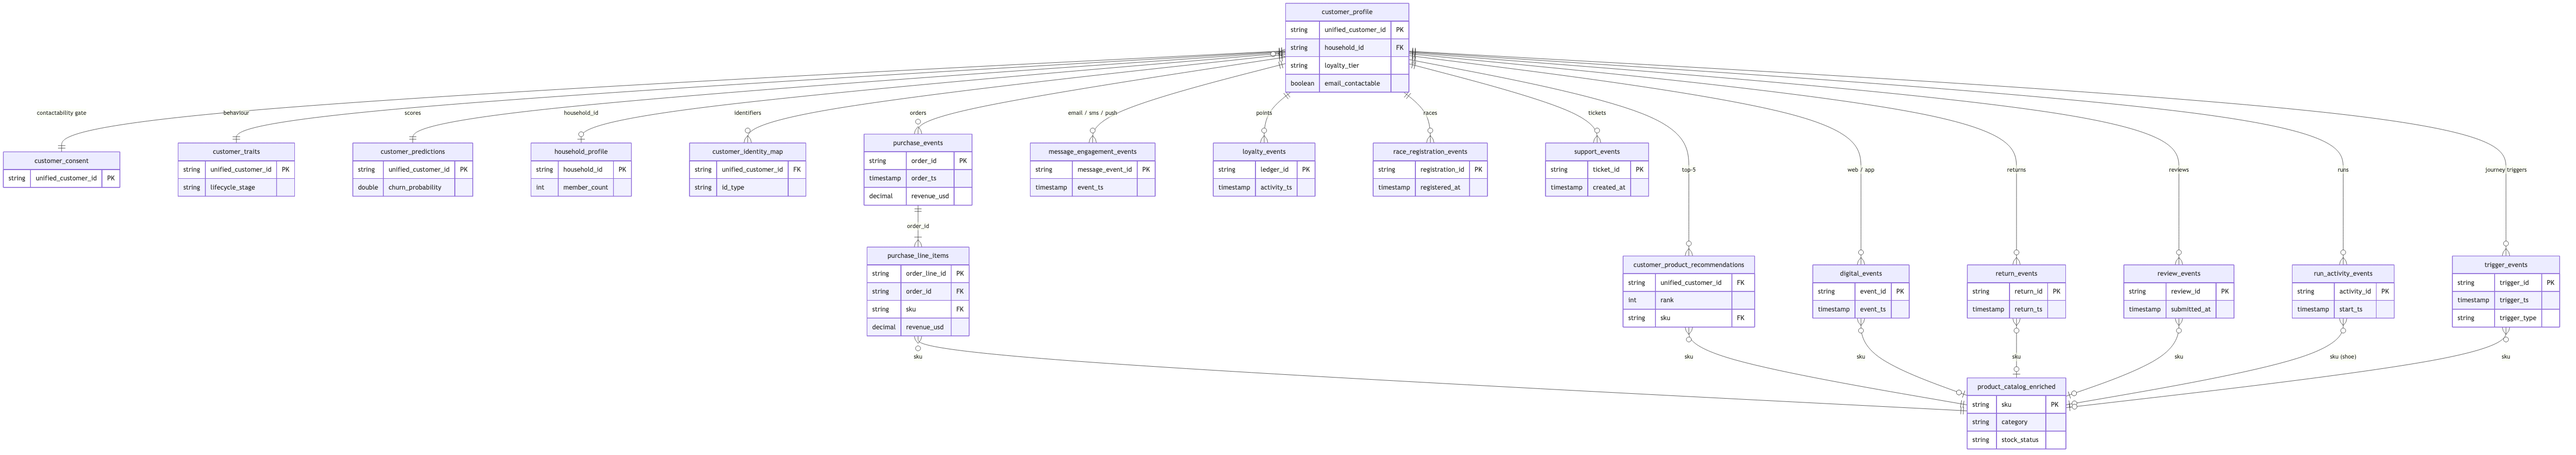
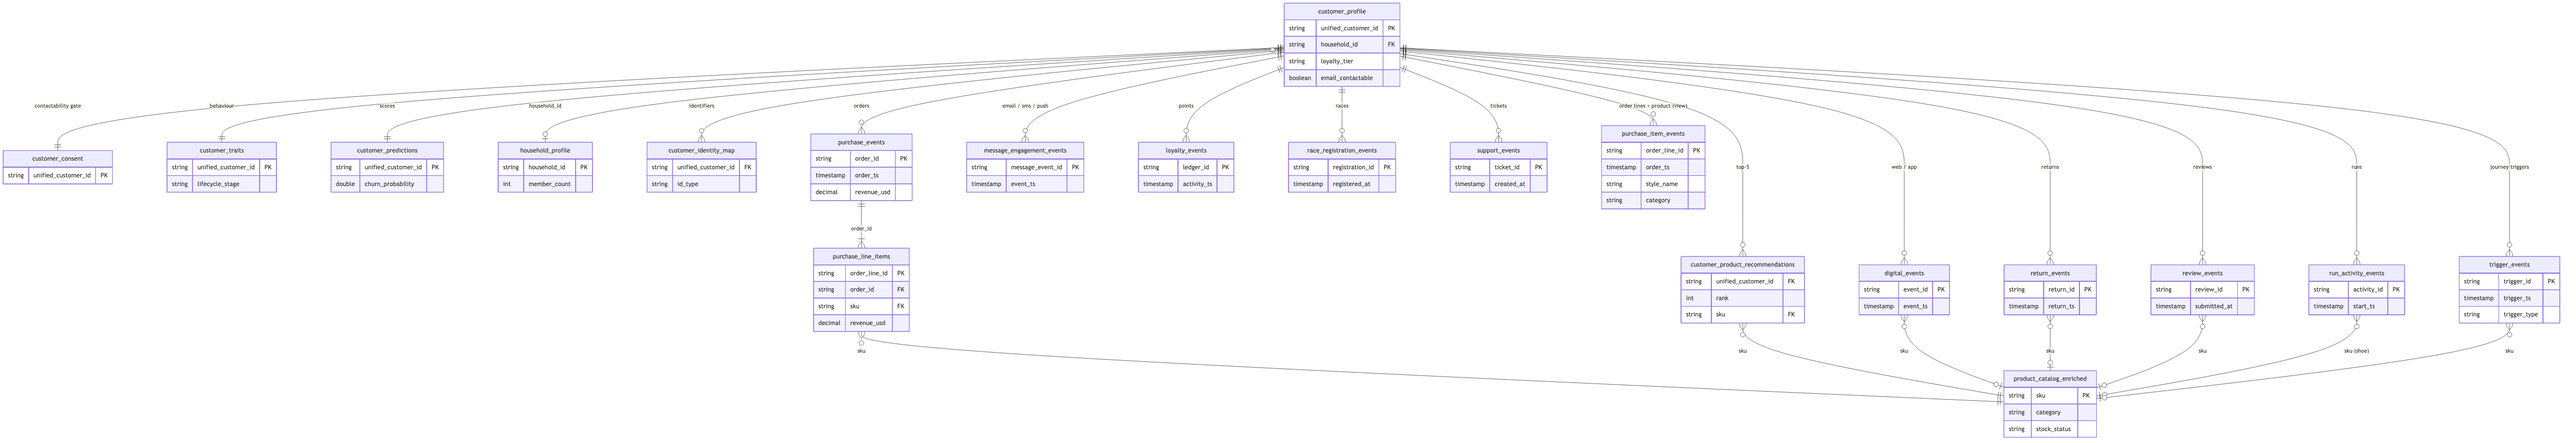
Add purchase_item_events view (order lines with order and product details)
Customer Lake event table (order_line_id, order_ts) for filtering purchases by product
name, category, sport, size and other product attributes. Created once with IF NOT
EXISTS so its identity stays stable; validated with the other event tables.

diff --git a/src/ddl/03_gold.py b/src/ddl/03_gold.py
@@ -2,7 +2,7 @@
 # MAGIC %md
 # MAGIC # Create gold tables
 # MAGIC
-# MAGIC **What it does:** Creates the gold schema and its 20 tables with a description on every table and column and liquid clustering keys. Safe to re-run: on existing tables it only refreshes descriptions and clustering keys.
+# MAGIC **What it does:** Creates the gold schema, its 20 tables and the `purchase_item_events` view with a description on every table and column and liquid clustering keys. Safe to re-run: on existing tables it only refreshes descriptions and clustering keys.
 # MAGIC
 # MAGIC - **Reads:** -
 # MAGIC - **Writes:** `retail_gold` schema and tables
@@ -650,6 +650,51 @@ CREATE TABLE IF NOT EXISTS ${catalog}.${gold}.review_events (
 ) COMMENT 'Customer Lake event table: product reviews (event id review_id, timestamp submitted_at) with rating and AI fit/sentiment. Derived from silver product_reviews + products. Built by job strideforge_medallion, task gold_customer_lake (notebook gold/04_customer_lake).'
 CLUSTER BY (unified_customer_id, submitted_at)
 TBLPROPERTIES ('cdp_activation' = 'true')
+""")
+# COMMAND ----------
+
+# MAGIC %md
+# MAGIC ### Step 22 - `purchase_item_events` - Customer Lake event table (view): one row per order line with order and product details
+# MAGIC Created once (`IF NOT EXISTS`) so the view keeps its identity for Customer Lake. To change it, drop it first.
+# COMMAND ----------
+
+run(r"""
+CREATE VIEW IF NOT EXISTS ${catalog}.${gold}.purchase_item_events (
+  order_line_id COMMENT 'Event id: order line id (order_id + "-" + line number).',
+  unified_customer_id COMMENT 'Unified customer id assigned by identity resolution (silver.identity_graph); joins to customer_profile.',
+  order_ts COMMENT 'Event timestamp: when the order was placed.',
+  order_id COMMENT 'Order id; joins to purchase_events.order_id.',
+  channel COMMENT 'Sales channel: web, app or store.',
+  store_id COMMENT 'Store (POS) or pickup store (BOPIS).',
+  country COMMENT 'Order country derived from currency: US, UK, DE, CA.',
+  fulfillment_type COMMENT 'ship, bopis, ship_from_store or in_store.',
+  promo_code COMMENT 'Promo / affiliate code used on the order.',
+  utm_source COMMENT 'UTM source of the order (google, meta, tiktok, youtube, email, sms, braze, affiliate, referral); null = direct.',
+  utm_campaign COMMENT 'UTM campaign (campaign_id for owned/paid campaigns, promo code for affiliates).',
+  sku COMMENT 'SKU bought = style_id-colorway-size (e.g. RUN0123-01-105).',
+  style_id COMMENT 'Product style id (e.g. RUN0123).',
+  style_name COMMENT 'Product name (e.g. CloudStride 3 Men\'s).',
+  category COMMENT 'Product category (Running, Trail, Basketball, Training, Lifestyle, Football, Kids Footwear, Apparel, Kids Apparel, Accessories).',
+  sport COMMENT 'Sport of the product (Running, Trail Running, Basketball, Training, Lifestyle, Football, Multi-Sport).',
+  gender COMMENT 'Product gender: Men, Women, Unisex or Kids.',
+  colorway COMMENT 'Colorway name (e.g. Core Black / Cloud White).',
+  size COMMENT 'Size bought (US numeric, kids C/Y, alpha XS-XXL, OS).',
+  is_limited_drop COMMENT 'Product is a limited collab drop.',
+  msrp COMMENT 'Manufacturer\'s suggested retail price (USD).',
+  unit_price_usd COMMENT 'Price paid per unit (USD).',
+  discount_usd COMMENT 'Discount on the line (USD).',
+  revenue_usd COMMENT 'Net line revenue after discount (USD).'
+)
+COMMENT 'Customer Lake event table (view): one row per order line of an identified order (event id order_line_id, timestamp order_ts), flattened with order details (channel, store, promo, UTMs) and product details (name, category, sport, gender, colorway, size, limited drop). Use it to filter purchases by product name or attributes. View over gold purchase_line_items + purchase_events + product_catalog_enriched; created by the gold DDL notebook (ddl/03_gold).'
+TBLPROPERTIES ('cdp_activation' = 'true')
+AS
+SELECT li.order_line_id, li.unified_customer_id, pe.order_ts, li.order_id, pe.channel, pe.store_id, pe.country,
+       pe.fulfillment_type, pe.promo_code, pe.utm_source, pe.utm_campaign,
+       li.sku, pc.style_id, pc.style_name, pc.category, pc.sport, pc.gender, pc.colorway, pc.size, pc.is_limited_drop, pc.msrp,
+       li.unit_price_usd, li.discount_usd, li.revenue_usd
+FROM ${catalog}.${gold}.purchase_line_items li
+JOIN ${catalog}.${gold}.purchase_events pe USING (order_id)
+LEFT JOIN ${catalog}.${gold}.product_catalog_enriched pc USING (sku)
 """)
 # COMMAND ----------
 

diff --git a/src/gold/04_customer_lake.py b/src/gold/04_customer_lake.py
@@ -186,7 +186,8 @@ EVENTS = {"purchase_events": ("order_id", "order_ts"), "return_events": ("return
           "digital_events": ("event_id", "event_ts"), "message_engagement_events": ("message_event_id", "event_ts"),
           "run_activity_events": ("activity_id", "start_ts"), "loyalty_events": ("ledger_id", "activity_ts"),
           "race_registration_events": ("registration_id", "registered_at"), "support_events": ("ticket_id", "created_at"),
-          "review_events": ("review_id", "submitted_at")}
+          "review_events": ("review_id", "submitted_at"),
+          "purchase_item_events": ("order_line_id", "order_ts")}
 problems = []
 for t, (eid, ts) in EVENTS.items():
     df = spark.table(f"{G}.{t}")

diff --git a/docs/customer_lake_setup.md b/docs/customer_lake_setup.md
@@ -36,6 +36,7 @@ Every table has a primary key and a description on each column.
 | `customer_identity_map` | 1:many | aggregate with `Count Distinct` / `List` on `id_type` |
 | `purchase_events` | **event table** | event ID `order_id`, timestamp `order_ts` |
 | `purchase_line_items` | 1:many **from `purchase_events`** | join `order_id = order_id` (one row per order line, with `sku`) |
+| `purchase_item_events` | **event table** (view) | event ID `order_line_id`, timestamp `order_ts`; one row per order line with order **and product** details: the easiest way to filter purchases by product name |
 | `return_events` | **event table** | event ID `return_id`, timestamp `return_ts` |
 | `digital_events` | **event table** | event ID `event_id`, timestamp `event_ts` |
 | `message_engagement_events` | **event table** | event ID `message_event_id`, timestamp `event_ts` |
@@ -65,7 +66,8 @@ carry a `sku`, each as **many:1** on `sku = sku`:
   - `Email Opens (30d)` = Count of `message_engagement_events.message_event_id` where `event_type = 'open'`, last 30 days
   - `Run Miles (30d)` = Sum of `run_activity_events.distance_miles`, last 30 days
   - `Recommended SKUs` = List of `customer_product_recommendations.sku`
-- **Event attributes** (for event filters): `purchase_events.channel`, `.categories`, `.has_running_shoes`,
+- **Event attributes** (for event filters): `purchase_item_events.style_name`, `.category`, `.sport`, `.gender`,
+  `.size`, `.is_limited_drop`, `.revenue_usd`; `purchase_events.channel`, `.categories`, `.has_running_shoes`,
   `.has_cloudstride_3`, `.revenue_usd`; `return_events.return_reason`, `.is_fit_related`, `.style_name`;
   `digital_events.event_type`, `.category`, `.sku`; `message_engagement_events.event_type`, `.channel`, `.campaign_id`;
   `run_activity_events.activity_type`, `.distance_miles`; `race_registration_events.event_type`, `.event_date`;
@@ -103,7 +105,8 @@ Column attributes: `member_count`, `has_kids`, `kids_age_bands`, `household_reve
 | Close to Elite | Customer | `loyalty_tier = Pro` AND `revenue_12m between 800 and 999` |
 | Lookalike seed | Customer | `predicted_clv_12m` in top 5% AND `paid_media_eligible` |
 | Recent purchasers (suppress) | Customer | event `purchase_events` in last 14 days (use as a blocklist on prospecting syncs) |
-| Bought trail shoes recently | Customer | event `purchase_events` in last 30 days where line item product `category = Trail` |
+| Bought trail shoes recently | Customer | event `purchase_item_events` in last 30 days where `category = Trail` |
+| Bought a CloudStride 3 | Customer | event `purchase_item_events` in last 180 days where `style_name` contains `CloudStride 3` |
 | Viewed a limited drop | Customer | event `digital_events` `event_type = product_view` in last 7 days where product `is_limited_drop = true` |
 | Recommended item on markdown | Customer | `customer_product_recommendations` product `is_on_markdown = true` AND `stock_status = in_stock` |
 | Email fatigued | Customer | `email_contactable` AND `Email Opens (30d) = 0` |
@@ -112,6 +115,5 @@ Column attributes: `member_count`, `has_kids`, `kids_age_bands`, `household_reve
 Connector rules: block `global_suppression = true` everywhere, `do_not_sell = true` / `paid_media_eligible = false`
 on ad platforms, and *Reseller suspects* on drop-related syncs.
 
-Filtering purchases on line-item product fields relies on event filters reaching through `purchase_events` →
-`purchase_line_items` → `product_catalog_enriched`. If the audience builder does not offer those fields, use the
-product arrays on `purchase_events` (`categories`, `sports`, `style_names`) instead.
+To filter purchases by product (name, category, sport, size ...), use the `purchase_item_events` event table: event
+attributes can only use an event table's own columns, and this view already has the product details on each line.

diff --git a/README.md b/README.md
@@ -13,7 +13,7 @@ Databricks Asset Bundle, so it can be deployed to any workspace.
 |---|---|---|
 | Bronze | `retail_bronze` | 42 raw tables, as they would arrive from each system (stores, website, app, loyalty, email, ads, support, …) |
 | Silver | `retail_silver` | 37 cleaned tables, with every record linked to one customer id |
-| Gold | `retail_gold` | 20 ready-to-use tables: the customer view, scores, product feed, journey triggers and the Customer Lake event tables |
+| Gold | `retail_gold` | 20 ready-to-use tables and 1 view: the customer view, scores, product feed, journey triggers and the Customer Lake event tables |
 
 `retail_synthetic_truth` holds the generator's "answer key" (which records really belong to whom), used to check
 identity-resolution accuracy. Every gold table and column has a description in Unity Catalog, and every gold
@@ -57,7 +57,7 @@ Point one entity at the gold tables:
 
 | Entity | Profile table (key) | Joined tables |
 |---|---|---|
-| Retail - StrideForge Customer | `customer_profile` (`unified_customer_id`) | 1:1 `customer_consent`, `customer_traits`, `customer_predictions`; many:1 `household_profile`; 1:many `customer_product_recommendations`, `customer_identity_map`; 9 event tables (`purchase_events`, `return_events`, `digital_events`, `message_engagement_events`, `run_activity_events`, `loyalty_events`, `race_registration_events`, `support_events`, `review_events`); `purchase_line_items` (1:many from `purchase_events`); `product_catalog_enriched` (many:1 on `sku`) |
+| Retail - StrideForge Customer | `customer_profile` (`unified_customer_id`) | 1:1 `customer_consent`, `customer_traits`, `customer_predictions`; many:1 `household_profile`; 1:many `customer_product_recommendations`, `customer_identity_map`; 10 event tables (`purchase_events`, `return_events`, `digital_events`, `message_engagement_events`, `run_activity_events`, `loyalty_events`, `race_registration_events`, `support_events`, `review_events`, plus the `purchase_item_events` view: order lines with product details); `purchase_line_items` (1:many from `purchase_events`); `product_catalog_enriched` (many:1 on `sku`) |
 
 Audiences are built in Customer Lake, not in gold. Campaign results (opens, clicks, conversions) are measured from the event tables. Exact wizard settings, suggested attributes and example audiences: [docs/customer_lake_setup.md](docs/customer_lake_setup.md).
 
